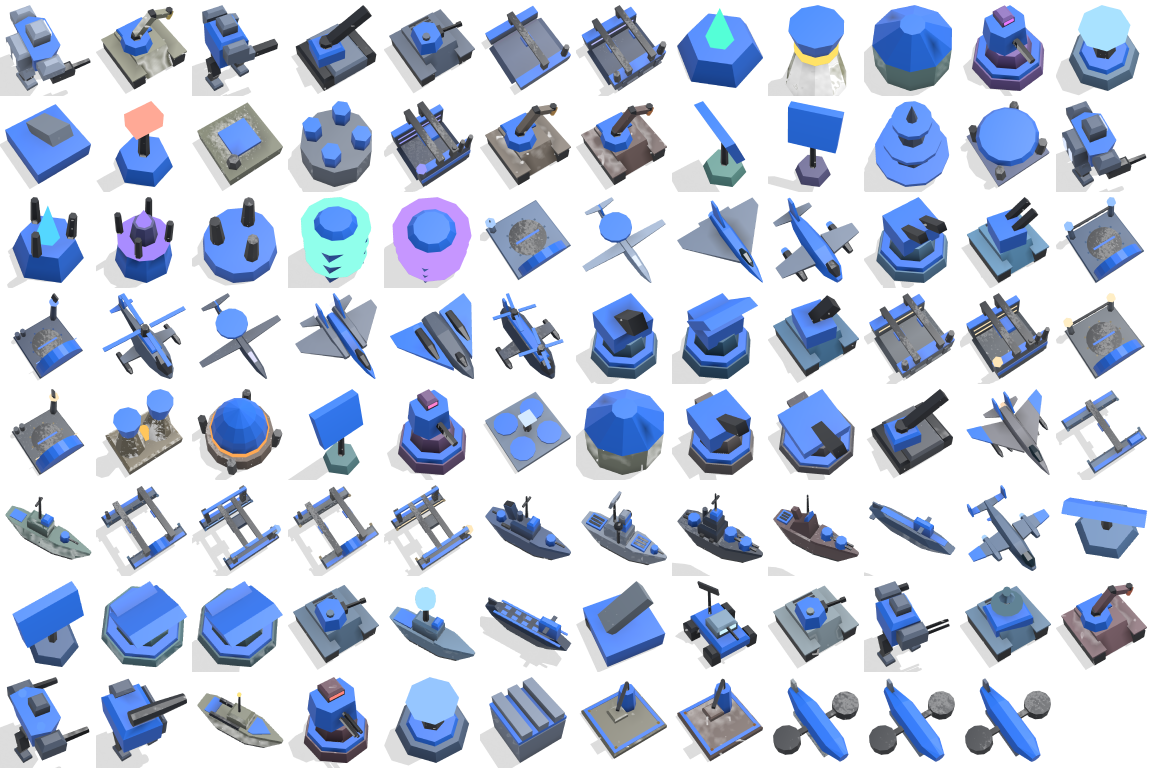
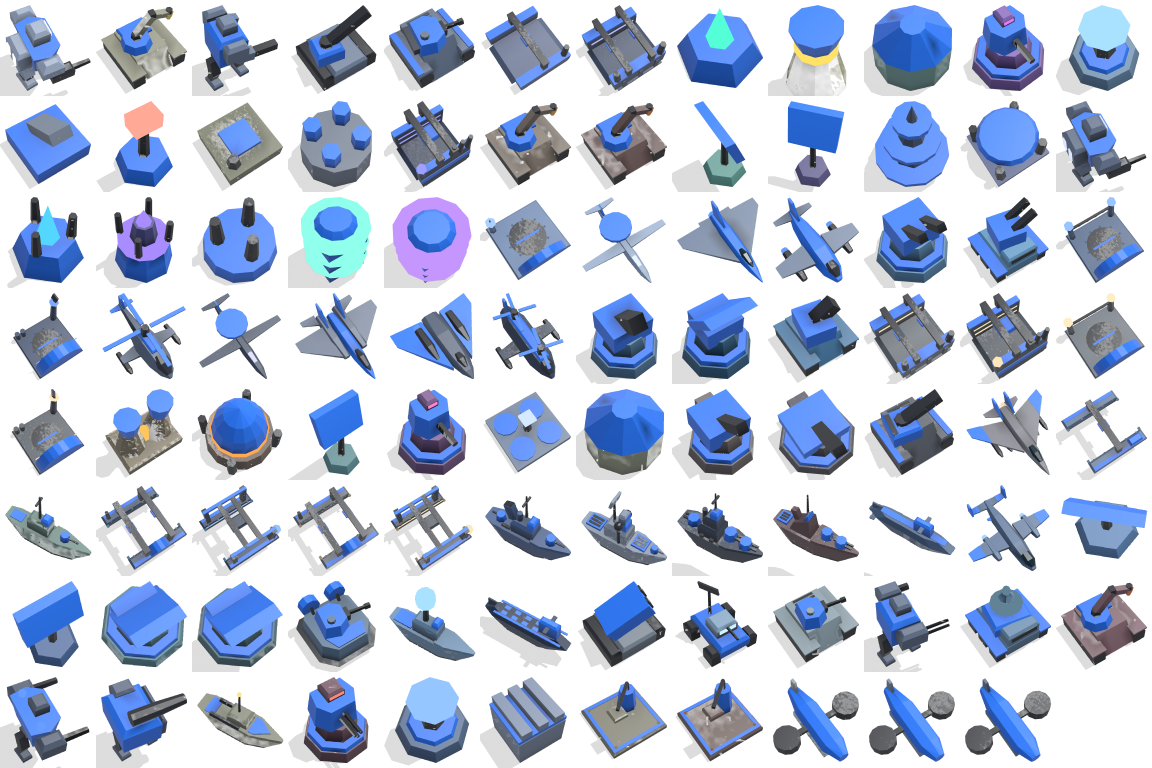
Visual pass, phase 4: land units get hulls of their own
The heavy tank, hovercraft, mobile anti-air and shield, T3 artillery, and missile
launcher no longer share the medium tank's or light artillery's models.

diff --git a/src/render/meshes.rs b/src/render/meshes.rs
@@ -164,10 +164,23 @@ pub enum Shape {
     SelectionRing,
     /// Flat, around the footprint of a selected structure.
     SelectionBox,
+    /// A heavy tank's hull: wide tracks under armored skirts, a long sloped front, and engine
+    /// grilles at the back.
+    HeavyTankHull,
+    /// A heavy tank's big turret, with a long gun, a cupola, and a bustle rack.
+    HeavyTank,
+    /// A hovercraft's hull: a rubber skirt, a deck, and two big fan ducts at the stern.
+    HoverHull,
+    /// A light six-wheeled truck, with a cab in front and a pedestal on its bed.
+    WheeledHull,
+    /// A self-propelled heavy gun: an armored casemate and a long barrel raised high.
+    HeavyArtillery,
+    /// A launcher box of missile tubes, raised on a pedestal.
+    MissileRack,
 }
 
 impl Shape {
-    pub const ALL: [Self; 84] = [
+    pub const ALL: [Self; 90] = [
         Self::Cube,
         Self::Commander,
         Self::CommanderLegs,
@@ -252,6 +265,12 @@ impl Shape {
         Self::Dome,
         Self::SelectionRing,
         Self::SelectionBox,
+        Self::HeavyTankHull,
+        Self::HeavyTank,
+        Self::HoverHull,
+        Self::WheeledHull,
+        Self::HeavyArtillery,
+        Self::MissileRack,
     ];
     pub const COUNT: usize = Self::ALL.len();
 
@@ -291,7 +310,7 @@ impl Shape {
 
     /// Whether the shape runs on tracks, and leaves their marks on the ground behind it.
     pub const fn leaves_tracks(self) -> bool {
-        matches!(self, Self::TankHull | Self::ArtilleryHull | Self::EngineerHull)
+        matches!(self, Self::TankHull | Self::HeavyTankHull | Self::ArtilleryHull | Self::EngineerHull)
     }
 
     /// Whether the shape is a pair of legs, which swing as the unit walks.
@@ -829,6 +848,120 @@ fn build_shape(shape: Shape, mesh: &mut MeshBuilder) {
             mesh.flash([0.0, 0.47, 0.02], 0.06);
             mesh.paint(Material::Hull);
             mesh.frustum([0.08, -0.13], [0.12, 0.17], [0.06, 0.055], 8);
+        }
+        Shape::HeavyTankHull => {
+            mesh.paint(Material::Metal);
+            for (low, high) in [(-0.5_f32, -0.27_f32), (0.27, 0.5)] {
+                mesh.bevel([low, -0.5, -0.5], [high, 0.46, -0.26], 0.05);
+            }
+            // Armored skirts over the upper run of the tracks, with the team's stripe along them.
+            mesh.paint(Material::Hull);
+            for (low, high) in [(-0.5_f32, -0.26_f32), (0.26, 0.5)] {
+                mesh.bevel([low, -0.48, -0.38], [high, 0.42, -0.2], 0.02);
+            }
+            mesh.paint(Material::Trim);
+            for (low, high) in [(-0.5_f32, -0.4_f32), (0.4, 0.5)] {
+                mesh.block([low, -0.46, -0.2], [high, 0.4, -0.18]);
+            }
+            // The body, with a long sloped front.
+            mesh.paint(Material::Hull);
+            mesh.cuboid(
+                [Vec3::new(-0.3, -0.46, -0.46), Vec3::new(0.3, -0.46, -0.46), Vec3::new(0.3, 0.48, -0.46), Vec3::new(-0.3, 0.48, -0.46)],
+                [Vec3::new(-0.3, -0.46, -0.06), Vec3::new(0.3, -0.46, -0.06), Vec3::new(0.3, 0.14, -0.06), Vec3::new(-0.3, 0.14, -0.06)],
+            );
+            // Engine grilles on the back deck.
+            mesh.paint(Material::Panel);
+            for y in [-0.4_f32, -0.32, -0.24] {
+                mesh.block([-0.2, y - 0.025, -0.06], [0.2, y + 0.025, -0.05]);
+            }
+        }
+        Shape::HeavyTank => {
+            mesh.prism(&[[-0.26, -0.3], [0.26, -0.3], [0.3, -0.04], [0.18, 0.16], [-0.18, 0.16], [-0.3, -0.04]], [-0.06, 0.16], [1.0, 0.85]);
+            mesh.paint(Material::Metal);
+            mesh.block([-0.1, 0.13, -0.02], [0.1, 0.2, 0.11]);
+            mesh.moving(motion::RECOIL, [0.0, 0.18, 0.045], |mesh| {
+                mesh.body(0.0, &[[0.18, 0.046, 0.046, 0.045], [0.44, 0.038, 0.038, 0.045]], 6);
+                mesh.body(0.0, &[[0.43, 0.058, 0.058, 0.045], [0.5, 0.058, 0.058, 0.045]], 6);
+            });
+            mesh.flash([0.0, 0.46, 0.045], 0.07);
+            // A commander's cupola, a vision slit, and a stowage rack on the bustle.
+            mesh.paint(Material::Hull);
+            mesh.frustum([0.1, -0.16], [0.14, 0.22], [0.07, 0.06], 8);
+            mesh.paint(Material::Glass);
+            mesh.block([-0.16, 0.12, 0.07], [-0.06, 0.135, 0.1]);
+            mesh.paint(Material::Panel);
+            mesh.block([-0.22, -0.38, -0.02], [0.22, -0.29, 0.1]);
+        }
+        Shape::HoverHull => {
+            let outline = [[-0.38, -0.5], [0.38, -0.5], [0.5, -0.38], [0.5, 0.28], [0.3, 0.5], [-0.3, 0.5], [-0.5, 0.28], [-0.5, -0.38]];
+            mesh.paint(Material::Metal);
+            mesh.prism(&outline, [-0.5, -0.36], [0.9, 1.0]);
+            mesh.paint(Material::Hull);
+            mesh.prism(&outline, [-0.36, -0.1], [0.86, 0.78]);
+            // A team-colored bow plate, and two fan ducts in the team's colors at the stern.
+            mesh.paint(Material::Trim);
+            mesh.prism(&[[-0.3, 0.16], [0.3, 0.16], [0.22, 0.36], [-0.22, 0.36]], [-0.1, -0.08], [1.0, 1.0]);
+            for x in [-0.22_f32, 0.22] {
+                mesh.paint(Material::Metal);
+                mesh.beam([x, -0.3, -0.1], [x, -0.36, 0.0], 0.02, 0.02);
+                mesh.paint(Material::Trim);
+                mesh.body(x, &[[-0.485, 0.15, 0.15, -0.02], [-0.36, 0.15, 0.15, -0.02]], 10);
+                mesh.paint(Material::Panel);
+                mesh.body(x, &[[-0.5, 0.11, 0.11, -0.02], [-0.48, 0.11, 0.11, -0.02]], 10);
+            }
+        }
+        Shape::WheeledHull => {
+            mesh.paint(Material::Metal);
+            for x in [-0.4_f32, 0.4] {
+                for y in [-0.32_f32, 0.0, 0.32] {
+                    mesh.bevel([x - 0.08, y - 0.11, -0.5], [x + 0.08, y + 0.11, -0.3], 0.03);
+                }
+            }
+            // Team-colored fenders over the wheels.
+            mesh.paint(Material::Trim);
+            for x in [-0.4_f32, 0.4] {
+                mesh.block([x - 0.1, -0.46, -0.3], [x + 0.1, 0.46, -0.26]);
+            }
+            mesh.paint(Material::Hull);
+            mesh.bevel([-0.3, -0.46, -0.44], [0.3, 0.44, -0.22], 0.03);
+            // The cab in front, with its windscreen, and a pedestal on the bed for what it carries.
+            mesh.bevel([-0.27, 0.2, -0.22], [0.27, 0.44, -0.02], 0.03);
+            mesh.paint(Material::Glass);
+            mesh.block([-0.22, 0.44, -0.14], [0.22, 0.455, -0.05]);
+            mesh.paint(Material::Metal);
+            mesh.frustum([0.0, -0.12], [-0.22, -0.1], [0.15, 0.13], 8);
+        }
+        Shape::HeavyArtillery => {
+            mesh.bevel([-0.24, -0.4, -0.12], [0.24, 0.06, 0.14], 0.04);
+            mesh.paint(Material::Panel);
+            mesh.block([-0.19, -0.38, 0.14], [0.19, -0.3, 0.15]);
+            mesh.paint(Material::Metal);
+            mesh.frustum([0.0, -0.16], [0.1, 0.2], [0.12, 0.11], 8);
+            mesh.moving(motion::RECOIL, [0.0, -0.26, 0.06], |mesh| {
+                mesh.beam([0.0, -0.26, 0.06], [0.0, 0.42, 0.42], 0.075, 0.075);
+                for x in [-0.07_f32, 0.07] {
+                    mesh.beam([x, -0.12, 0.17], [x, 0.18, 0.33], 0.035, 0.035);
+                }
+            });
+            mesh.flash([0.0, 0.42, 0.42], 0.08);
+        }
+        Shape::MissileRack => {
+            mesh.paint(Material::Metal);
+            mesh.frustum([0.0, -0.08], [-0.2, -0.02], [0.13, 0.1], 6);
+            // The launcher box, raised to fire, with the team's colors, and the tubes' caps at
+            // its front end.
+            mesh.paint(Material::Trim);
+            let (back, front) = ([0.0, -0.32, -0.04], [0.0, 0.26, 0.26]);
+            mesh.beam(back, front, 0.22, 0.12);
+            let along = (Vec3::from(front) - Vec3::from(back)).normalize();
+            let up = Vec3::X.cross(along).normalize();
+            mesh.paint(Material::Panel);
+            for x in [-0.1_f32, 0.1] {
+                for lift in [-0.055_f32, 0.055] {
+                    let cap = Vec3::from(front) + Vec3::X * x + up * lift;
+                    mesh.beam(cap.to_array(), (cap + along * 0.025).to_array(), 0.045, 0.04);
+                }
+            }
         }
         // A tracked carriage with spades at the back, to brace against the recoil.
         Shape::ArtilleryHull => {

diff --git a/src/render/instances.rs b/src/render/instances.rs
@@ -302,7 +302,7 @@ pub fn unit_look(key: &str) -> UnitLook {
         "t1_land_scout" => look(Shape::LandScout, Some([0.75, 0.95, 1.00]), 1.0),
         "t1_medium_tank" => UnitLook { base: Some(Shape::TankHull), ..look(Shape::Tank, Some([0.80, 0.85, 0.70]), 1.0) },
         "t2_grenadier_walker" => UnitLook { base: Some(Shape::BotLegs), ..look(Shape::GrenadierWalker, None, 1.0) },
-        "t2_mobile_shield" => UnitLook { base: Some(Shape::TankHull), ..look(Shape::ShieldEmitter, Some([0.55, 0.85, 1.00]), 1.0) },
+        "t2_mobile_shield" => UnitLook { base: Some(Shape::WheeledHull), ..look(Shape::ShieldEmitter, Some([0.55, 0.85, 1.00]), 1.0) },
         "t2_combat_engineer" => UnitLook { base: Some(Shape::EngineerHull), ..look(Shape::Engineer, Some([0.95, 0.40, 0.25]), 1.0) },
         "t3_heavy_walker" => UnitLook { base: Some(Shape::BotLegs), ..look(Shape::HeavyWalker, None, 1.0) },
         "t3_siege_walker" => UnitLook { base: Some(Shape::BotLegs), ..look(Shape::SiegeWalker, Some([0.70, 0.70, 0.75]), 1.0) },
@@ -316,8 +316,8 @@ pub fn unit_look(key: &str) -> UnitLook {
         "t3_heavy_transport" => look(Shape::Transport, Some([0.55, 0.60, 0.75]), 1.0),
         "field_workshop_t3" => look(Shape::FieldWorkshop, Some([0.95, 0.55, 0.20]), 0.95),
         "t1_light_artillery" => UnitLook { base: Some(Shape::ArtilleryHull), ..look(Shape::Artillery, None, 1.0) },
-        "t2_heavy_tank" => UnitLook { base: Some(Shape::TankHull), ..look(Shape::Tank, None, 1.0) },
-        "t2_assault_hovercraft" => UnitLook { base: Some(Shape::TankHull), ..look(Shape::Tank, Some([0.45, 0.65, 0.75]), 1.0) },
+        "t2_heavy_tank" => UnitLook { base: Some(Shape::HeavyTankHull), ..look(Shape::HeavyTank, None, 1.0) },
+        "t2_assault_hovercraft" => UnitLook { base: Some(Shape::HoverHull), ..look(Shape::Tank, Some([0.45, 0.65, 0.75]), 1.0) },
         "land_factory_t1" => look(Shape::Factory, Some([0.35, 0.35, 0.45]), 0.55),
         "land_factory_t2" => look(Shape::FactoryT2, Some([0.20, 0.20, 0.30]), 0.7),
         "mass_extractor" => look(Shape::Extractor, Some([0.10, 0.95, 0.75]), 0.8),
@@ -328,7 +328,7 @@ pub fn unit_look(key: &str) -> UnitLook {
         "energy_storage" => look(Shape::Storage, Some([1.00, 0.90, 0.40]), 0.65),
         "t2_artillery" => UnitLook { base: Some(Shape::PointDefenseBase), ..look(Shape::ArtilleryGun, Some([0.80, 0.55, 0.30]), 1.0) },
         "t3_artillery" => UnitLook { base: Some(Shape::PointDefenseBase), ..look(Shape::ArtilleryGun, Some([0.50, 0.30, 0.20]), 0.6) },
-        "t3_mobile_artillery" => UnitLook { base: Some(Shape::ArtilleryHull), ..look(Shape::Artillery, Some([0.55, 0.45, 0.35]), 1.0) },
+        "t3_mobile_artillery" => UnitLook { base: Some(Shape::HeavyTankHull), ..look(Shape::HeavyArtillery, Some([0.55, 0.45, 0.35]), 1.0) },
         "radar" => look(Shape::Radar, Some([0.40, 0.90, 0.55]), 1.3),
         "deep_scan_array" => look(Shape::Radar, Some([0.75, 0.55, 1.00]), 1.6),
         "stealth_field_generator" => look(Shape::StealthGenerator, Some([0.30, 0.30, 0.35]), 1.2),
@@ -344,7 +344,7 @@ pub fn unit_look(key: &str) -> UnitLook {
         "t1_attack_sub" => look(Shape::Submarine, Some([0.10, 0.20, 0.30]), 0.3),
         "t2_escort_corvette" => look(Shape::EscortCorvette, Some([0.55, 0.85, 1.00]), 0.5),
         "t3_missile_sub" => look(Shape::MissileSubmarine, Some([0.05, 0.10, 0.20]), 0.35),
-        "t2_mobile_missile_launcher" => UnitLook { base: Some(Shape::ArtilleryHull), ..look(Shape::MissileLauncher, Some([0.80, 0.80, 0.70]), 1.0) },
+        "t2_mobile_missile_launcher" => UnitLook { base: Some(Shape::ArtilleryHull), ..look(Shape::MissileRack, Some([0.80, 0.80, 0.70]), 1.0) },
         "t2_torpedo_bomber" => look(Shape::TorpedoBomber, Some([0.40, 0.55, 0.70]), 0.55),
         "t1_sonar" => look(Shape::Radar, Some([0.30, 0.60, 0.90]), 1.0),
         "t2_sonar" => look(Shape::Radar, Some([0.20, 0.45, 0.85]), 1.2),
@@ -381,7 +381,7 @@ pub fn unit_look(key: &str) -> UnitLook {
         "t1_interceptor" => look(Shape::Aircraft, None, 0.5),
         "t1_bomber" => look(Shape::Bomber, None, 0.6),
         "t1_aa_turret" => UnitLook { base: Some(Shape::PointDefenseBase), ..look(Shape::AntiAirGun, Some([0.35, 0.75, 0.95]), 0.9) },
-        "t1_mobile_aa" => UnitLook { base: Some(Shape::TankHull), ..look(Shape::AntiAirGun, Some([0.30, 0.78, 0.98]), 1.0) },
+        "t1_mobile_aa" => UnitLook { base: Some(Shape::WheeledHull), ..look(Shape::AntiAirGun, Some([0.30, 0.78, 0.98]), 1.0) },
         "t1_point_defense" => UnitLook { base: Some(Shape::PointDefenseBase), ..look(Shape::PointDefense, Some([0.75, 0.25, 0.85]), 0.9) },
         _ => look(Shape::Cube, None, 0.6),
     }
@@ -985,7 +985,7 @@ mod tests {
         let db = BlueprintDb::standard();
         let looks = unit_looks(&db);
         let mut tank = unit(1, 0);
-        tank.blueprint = db.id("t2_heavy_tank").0;
+        tank.blueprint = db.id("t1_medium_tank").0;
         let action = |motion: &mut Motion| {
             let mut out = InstanceBatches::default();
             build_unit_instances(&[tank], &[tank], 1.0, [0.0; 3], &[], &looks, &[], motion, &mut out);
@@ -1136,7 +1136,7 @@ mod tests {
         let db = BlueprintDb::standard();
         let looks = unit_looks(&db);
         let mut tank = unit(1, 0);
-        tank.blueprint = db.id("t2_heavy_tank").0;
+        tank.blueprint = db.id("t1_medium_tank").0;
         let mut generator = unit(2, 0);
         generator.blueprint = db.id("power_generator").0;
         generator.is_structure = true;
@@ -1160,7 +1160,7 @@ mod tests {
         let db = BlueprintDb::standard();
         let looks = unit_looks(&db);
         let mut tank = unit(1, 0);
-        tank.blueprint = db.id("t2_heavy_tank").0;
+        tank.blueprint = db.id("t1_medium_tank").0;
         let mut moved = tank;
         moved.x = 4096 * 4;
         let mut motion = Motion::new();
@@ -1269,7 +1269,7 @@ mod tests {
         let db = BlueprintDb::standard();
         let looks = unit_looks(&db);
         let mut tank = unit(1, 0);
-        tank.blueprint = db.id("t2_heavy_tank").0;
+        tank.blueprint = db.id("t1_medium_tank").0;
         tank.facing = [4096, 0];
         tank.aim = [0, -4096];
         let mut motion = Motion::new();
@@ -1301,7 +1301,7 @@ mod tests {
         let db = BlueprintDb::standard();
         let looks = unit_looks(&db);
         let mut before = unit(1, 0);
-        before.blueprint = db.id("t2_heavy_tank").0;
+        before.blueprint = db.id("t1_medium_tank").0;
         before.facing = [4096, 0];
         let mut after = before;
         after.facing = [0, 4096];

diff --git a/GAME_SPECIFICATION.md b/GAME_SPECIFICATION.md
@@ -383,7 +383,7 @@ The first playable build proves the core loop before the full design is attempte
 | T1 Point Defense | Static direct-fire defense |
 
 * **Systems:** Flow economy with stalling (§3.1–3.2), Materiel Extractor and factory adjacency (§4), Build Power and assisting (§5.1), wreckage and reclaim (§6.1), ballistics with terrain masking and friendly fire (§7.1), line of sight with fog of war (§9), and Assassination mode (§16).
-* **Interface:** Selection, move, attack, patrol, build placement, a build menu, resource rates and storage, unit health bars, and NATO-style icons at far zoom. Each kind of unit or structure has an icon of its own, and its tiers share it, with a white dot beneath for each tech level, ringed dark, the same for every team: the T1 air scout and the T3 spy plane show the same symbol, with one dot and three (pale gold chevrons until 2026-11-18). The frame says what role it plays, by its outline alone, whatever its symbol: a head and shoulders for the command rig and the support command rig; a building with a pitched roof for every factory (those that make units, the rig yard among them); an octagon, a square with its corners cut, for every other structure (a square until 2026-11-19, which read as a vehicle's rectangle at map size; a test now checks every pair of frames differs in its number of corners, which end is wider, or how wide it is for its height); a wide rectangle for tanks, artillery, the mobile missile launcher, anti-air, the mobile shield, the hovercraft, the land scout, and engineers; a rounded pill for the walkers; a hull pointed at bow and stern for surface ships; a keel, flat on top and pointed beneath, for submarines; a triangle pointing up for fighters, the air scout, and the spy plane (a diamond until 2026-11-19); a triangle pointing down, the same turned over, for bombers, the torpedo bomber, and the fighter-bomber; and a circle, a rotor's disc, for gunships and transports. The symbol inside says what the unit does and never counts anything, so that the dots are the only thing on an icon to count (until 2026-11-18 the destroyer, cruiser, and battleship showed one, two, and three bars, which read as tech levels): the frigate is an arrowhead, the destroyer a turret, the cruiser a rising missile, the battleship one great turret, the battlecruiser a turret with a wake, the attack submarine a conning tower, the missile submarine a missile leaving the water, a bomber a falling bomb, an engineer a wrench. Frames are filled with a dark shade of the team's color. Map icons are 18 points tall, 21 for the command rigs, with thick strokes, and a click anywhere on one, out to its edges and dots, picks its unit (a test checks every icon lies within that area, 16 points either side, 16 above and 21 below; a 12-pixel circle at its center missed clicks on the edges). The same icons mark the build bars, the quick select bar, and the control group rows. The screen is framed by dark panels with cut corners, a steel rim, and a glowing inner line: the economy at the top left (each resource's store as a bar, its net rate in large figures, reclaim coming in over all reclaimed so far, and income over spending; a stalling resource's row glows red), pause, sound, and the ranges list at the top middle, and the clock, the teams, and the map at the top right, each team with the units of it that can be seen, its materiel income if known, and what its mobile units cost. Under the economy, a minimap shows the whole map, the way the camera faces, its far edge at the top (it was drawn upside down until 2026-11-16): the land shaded by height and lit from the top left, water darker with depth, what is out of sight darkened, every unit as a dot in its team's color (structures larger, with a dark rim), blips in grey, and the camera's view outlined in white; clicking or dragging on it moves the view there. The control groups sit under the minimap; right-clicking the minimap sends the selection there, as a right-click on the ground would, with Shift to queue, Alt to attack-move, and Ctrl for formation. Under the score panel, big square buttons select the commander (with its health) and each kind of factory (with how many), opening onto its tech levels; control groups are squares. Along the bottom, the command bar holds the orders and toggles as glyph buttons with their keys, then tabs for what its main area shows: the build bar, the selection's kinds with counts (click one to select only those), or a commander's enhancements by slot, each with its cost; under them, the queue as icons with counts and progress. Above the orders, a panel shows what is selected: its portrait, name, health as a bar with the figures on it, what it makes less what it uses by each resource's mark, its build power, and what a factory is making and how far along. Units that do different jobs look different up close: the air scout and the spy plane are recon planes with a radar disc over long straight wings, unlike the delta-winged interceptor; the fighter-bomber has swept wings and canisters under them, and the torpedo bomber two engines and a torpedo slung under its belly, unlike the T1 bomber; the cruiser carries two big radar domes and a tall block over its bridge, and the destroyer a big raked funnel. Each surface warship's hull is a color of its own, so the fleet does not read as a row of grey hulls (until 2026-11-19 they were all shades of grey): the frigate green, the destroyer blue, the cruiser white, the battleship near black, and the battlecruiser rust (a test keeps every pair of them apart, for either team). The battleship and the battlecruiser are much bigger than the rest of the fleet, 92 and 80 across against the destroyer's and cruiser's 40 (64 and 56 until 2026-11-18). Buttons for units and structures show a portrait of the model, rendered from the interface's usual angle, with its map symbol small in the corner in its role's color. Ships are shown lower down and more from the side, bow to the right, since what tells one from another is its profile: its turrets, funnels, domes, and towers. The portraits are made by `examples/portrait_sheet.rs`, which draws each unit alone and again without it, keeps what differs, and packs them into `assets/portraits.png`; a test fails if a unit has none, and the generator is run again after a model changes. Without the sheet, buttons show the symbols alone. For reviewing models, `--review <folder>` also saves the portraits of land units, aircraft, ships, and structures as a sheet each, twice their size; with `examples/unit_gallery.rs` (every unit at play zoom and close up) and `examples/icon_sheet.rs` (every icon), each change to a model is compared before and after at all three distances. Tests hold every model to rules: under 1,200 triangles a shape, and the team's color showing on every unit as the camera sees it close up, measured by a small rasterizer in the tests that draws a model from the camera's angle. Shapes share one buffer with 32-bit indices (16-bit until 2026-11-20, which allowed 65,535 vertices in all, half of them used). Models are shaded where their parts meet: as the shapes are built, each is sampled into a grid, and each vertex looks out over its side of the surface for parts close by, and for the ground under anything that stands on it, to see how open it is to the sky, which darkens corners, the foot of walls, and the hull under a tower; large faces are cut into a grid first, so that the shading shows across them, and what stands on the ground darkens a little towards its foot. Edges facing away from the eye catch more light from further out, where units are small, so that they stand out from the ground. Besides team color, armor, gunmetal, and glowing parts, models have dark recessed panels and glass, dark, tinted, and shiny, for cockpits and windows. Tracked vehicles (tanks, artillery, and engineers) leave faint track marks behind them on the ground, which fade over 8 seconds, kept apart from battle scars so that driving never wipes those out. Every model follows the same visual rules, which tests hold it to. The team's color covers at least a sixth of every unit as the camera sees it close up (once only turrets carried it, and some hulls showed as little as 2%): aircraft have team-colored wingtips, ships and submarines team stripes down their decks, piers a team stripe along their edges. A unit's tier shows in its armor, which T2 darkens by an eighth and T3 by a quarter, so that a heavier version of the same model reads as heavier, as the dots read on its icon; units sharing a model must differ either so or by a clearly different hull color. A unit's role shows in its color: mobile builders are work yellow and orange, what shoots only at aircraft from the ground or the water is a cool cyan, torpedo launchers are teal, like the torpedo range ring, and support factories are a warm tan, apart from the headquarters they serve. Off the map lies a floor of dark panels with a few lights, and the map's edge glows. What the viewer sees is washed pale against the darker land it cannot, a third as strongly up close and fully from halfway out, so that vision reads as bright bubbles; and whatever is selected, one unit or a group, rings every range it reaches, those of a kind merged into one outline around the group, each kind in its own color: ground fire yellow, anti-air (anything that can fire at aircraft) pink, torpedoes teal, artillery's minimum range red, shields pale blue, missile defense orange, torpedo defense pale cyan, radar green, sonar blue, deep scan purple, and stealth fields grey. A gun that fires at both the ground and aircraft rings as both. Up close each kind is named at its far edge. A ranges button beside pause opens a list of the kinds, each a checkbox in its color: a kind ticked is outlined thinly for all the viewer's finished units, selected or not, at any zoom (for both teams when watching everything). Radar and sonar are ticked to begin with; radar and deep scan show what the sensors really reach, powered and enhanced. Until 2026-11-19 only a zoomed-out view outlined radar and deep scan, and a gun for both ground and air showed one ring. Zoomed out, materiel deposits are marked green and geothermal vents amber, and each commander carries its side's name, underlined in its color. The selection's walks are wide, faint ribbons under their dashed trails, and each stop says when the slowest unit going there arrives (ETA, in minutes and seconds, at top speed in straight lines; building and other work stop the estimate).
+* **Interface:** Selection, move, attack, patrol, build placement, a build menu, resource rates and storage, unit health bars, and NATO-style icons at far zoom. Each kind of unit or structure has an icon of its own, and its tiers share it, with a white dot beneath for each tech level, ringed dark, the same for every team: the T1 air scout and the T3 spy plane show the same symbol, with one dot and three (pale gold chevrons until 2026-11-18). The frame says what role it plays, by its outline alone, whatever its symbol: a head and shoulders for the command rig and the support command rig; a building with a pitched roof for every factory (those that make units, the rig yard among them); an octagon, a square with its corners cut, for every other structure (a square until 2026-11-19, which read as a vehicle's rectangle at map size; a test now checks every pair of frames differs in its number of corners, which end is wider, or how wide it is for its height); a wide rectangle for tanks, artillery, the mobile missile launcher, anti-air, the mobile shield, the hovercraft, the land scout, and engineers; a rounded pill for the walkers; a hull pointed at bow and stern for surface ships; a keel, flat on top and pointed beneath, for submarines; a triangle pointing up for fighters, the air scout, and the spy plane (a diamond until 2026-11-19); a triangle pointing down, the same turned over, for bombers, the torpedo bomber, and the fighter-bomber; and a circle, a rotor's disc, for gunships and transports. The symbol inside says what the unit does and never counts anything, so that the dots are the only thing on an icon to count (until 2026-11-18 the destroyer, cruiser, and battleship showed one, two, and three bars, which read as tech levels): the frigate is an arrowhead, the destroyer a turret, the cruiser a rising missile, the battleship one great turret, the battlecruiser a turret with a wake, the attack submarine a conning tower, the missile submarine a missile leaving the water, a bomber a falling bomb, an engineer a wrench. Frames are filled with a dark shade of the team's color. Map icons are 18 points tall, 21 for the command rigs, with thick strokes, and a click anywhere on one, out to its edges and dots, picks its unit (a test checks every icon lies within that area, 16 points either side, 16 above and 21 below; a 12-pixel circle at its center missed clicks on the edges). The same icons mark the build bars, the quick select bar, and the control group rows. The screen is framed by dark panels with cut corners, a steel rim, and a glowing inner line: the economy at the top left (each resource's store as a bar, its net rate in large figures, reclaim coming in over all reclaimed so far, and income over spending; a stalling resource's row glows red), pause, sound, and the ranges list at the top middle, and the clock, the teams, and the map at the top right, each team with the units of it that can be seen, its materiel income if known, and what its mobile units cost. Under the economy, a minimap shows the whole map, the way the camera faces, its far edge at the top (it was drawn upside down until 2026-11-16): the land shaded by height and lit from the top left, water darker with depth, what is out of sight darkened, every unit as a dot in its team's color (structures larger, with a dark rim), blips in grey, and the camera's view outlined in white; clicking or dragging on it moves the view there. The control groups sit under the minimap; right-clicking the minimap sends the selection there, as a right-click on the ground would, with Shift to queue, Alt to attack-move, and Ctrl for formation. Under the score panel, big square buttons select the commander (with its health) and each kind of factory (with how many), opening onto its tech levels; control groups are squares. Along the bottom, the command bar holds the orders and toggles as glyph buttons with their keys, then tabs for what its main area shows: the build bar, the selection's kinds with counts (click one to select only those), or a commander's enhancements by slot, each with its cost; under them, the queue as icons with counts and progress. Above the orders, a panel shows what is selected: its portrait, name, health as a bar with the figures on it, what it makes less what it uses by each resource's mark, its build power, and what a factory is making and how far along. Units that do different jobs look different up close: the air scout and the spy plane are recon planes with a radar disc over long straight wings, unlike the delta-winged interceptor; the fighter-bomber has swept wings and canisters under them, and the torpedo bomber two engines and a torpedo slung under its belly, unlike the T1 bomber; the cruiser carries two big radar domes and a tall block over its bridge, and the destroyer a big raked funnel. Each surface warship's hull is a color of its own, so the fleet does not read as a row of grey hulls (until 2026-11-19 they were all shades of grey): the frigate green, the destroyer blue, the cruiser white, the battleship near black, and the battlecruiser rust (a test keeps every pair of them apart, for either team). The battleship and the battlecruiser are much bigger than the rest of the fleet, 92 and 80 across against the destroyer's and cruiser's 40 (64 and 56 until 2026-11-18). Buttons for units and structures show a portrait of the model, rendered from the interface's usual angle, with its map symbol small in the corner in its role's color. Ships are shown lower down and more from the side, bow to the right, since what tells one from another is its profile: its turrets, funnels, domes, and towers. The portraits are made by `examples/portrait_sheet.rs`, which draws each unit alone and again without it, keeps what differs, and packs them into `assets/portraits.png`; a test fails if a unit has none, and the generator is run again after a model changes. Without the sheet, buttons show the symbols alone. For reviewing models, `--review <folder>` also saves the portraits of land units, aircraft, ships, and structures as a sheet each, twice their size; with `examples/unit_gallery.rs` (every unit at play zoom and close up) and `examples/icon_sheet.rs` (every icon), each change to a model is compared before and after at all three distances. Tests hold every model to rules: under 1,200 triangles a shape, and the team's color showing on every unit as the camera sees it close up, measured by a small rasterizer in the tests that draws a model from the camera's angle. Shapes share one buffer with 32-bit indices (16-bit until 2026-11-20, which allowed 65,535 vertices in all, half of them used). Models are shaded where their parts meet: as the shapes are built, each is sampled into a grid, and each vertex looks out over its side of the surface for parts close by, and for the ground under anything that stands on it, to see how open it is to the sky, which darkens corners, the foot of walls, and the hull under a tower; large faces are cut into a grid first, so that the shading shows across them, and what stands on the ground darkens a little towards its foot. Edges facing away from the eye catch more light from further out, where units are small, so that they stand out from the ground. Besides team color, armor, gunmetal, and glowing parts, models have dark recessed panels and glass, dark, tinted, and shiny, for cockpits and windows. Tracked vehicles (tanks, artillery, and engineers) leave faint track marks behind them on the ground, which fade over 8 seconds, kept apart from battle scars so that driving never wipes those out. Every model follows the same visual rules, which tests hold it to. The team's color covers at least a sixth of every unit as the camera sees it close up (once only turrets carried it, and some hulls showed as little as 2%): aircraft have team-colored wingtips, ships and submarines team stripes down their decks, piers a team stripe along their edges. A unit's tier shows in its armor, which T2 darkens by an eighth and T3 by a quarter, so that a heavier version of the same model reads as heavier, as the dots read on its icon; units sharing a model must differ either so or by a clearly different hull color. A unit's role shows in its color: mobile builders are work yellow and orange, what shoots only at aircraft from the ground or the water is a cool cyan, torpedo launchers are teal, like the torpedo range ring, and support factories are a warm tan, apart from the headquarters they serve. Land units that once shared a hull have their own: the heavy tank a wide hull with armored skirts over its tracks and a big turret with a cupola, the hovercraft a rubber skirt and two fan ducts at its stern, the mobile anti-air and the mobile shield a six-wheeled truck with a cab, the T3 mobile artillery an armored casemate with a long barrel on the heavy hull, and the mobile missile launcher a raised box of missile tubes. Off the map lies a floor of dark panels with a few lights, and the map's edge glows. What the viewer sees is washed pale against the darker land it cannot, a third as strongly up close and fully from halfway out, so that vision reads as bright bubbles; and whatever is selected, one unit or a group, rings every range it reaches, those of a kind merged into one outline around the group, each kind in its own color: ground fire yellow, anti-air (anything that can fire at aircraft) pink, torpedoes teal, artillery's minimum range red, shields pale blue, missile defense orange, torpedo defense pale cyan, radar green, sonar blue, deep scan purple, and stealth fields grey. A gun that fires at both the ground and aircraft rings as both. Up close each kind is named at its far edge. A ranges button beside pause opens a list of the kinds, each a checkbox in its color: a kind ticked is outlined thinly for all the viewer's finished units, selected or not, at any zoom (for both teams when watching everything). Radar and sonar are ticked to begin with; radar and deep scan show what the sensors really reach, powered and enhanced. Until 2026-11-19 only a zoomed-out view outlined radar and deep scan, and a gun for both ground and air showed one ring. Zoomed out, materiel deposits are marked green and geothermal vents amber, and each commander carries its side's name, underlined in its color. The selection's walks are wide, faint ribbons under their dashed trails, and each stop says when the slowest unit going there arrives (ETA, in minutes and seconds, at top speed in straight lines; building and other work stop the estimate).
 * **Presentation:** Placeholder geometry and no required audio.
 
 ### 18.2 Deferred
